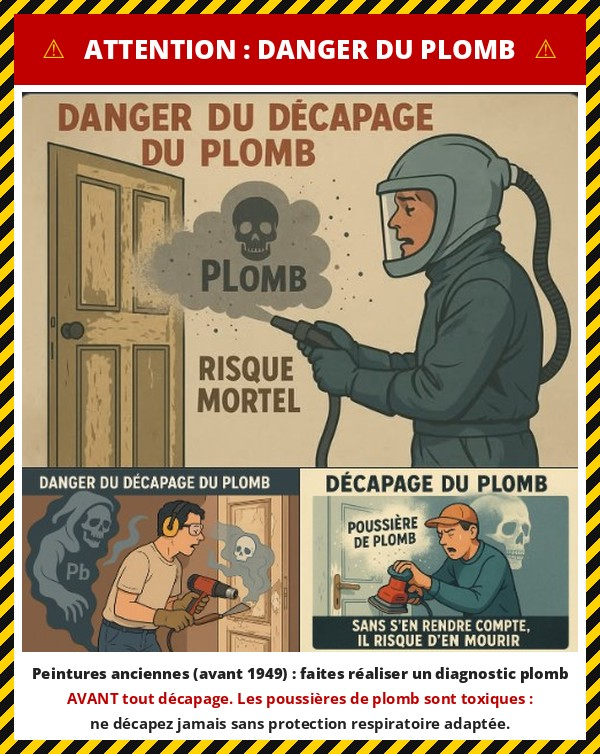
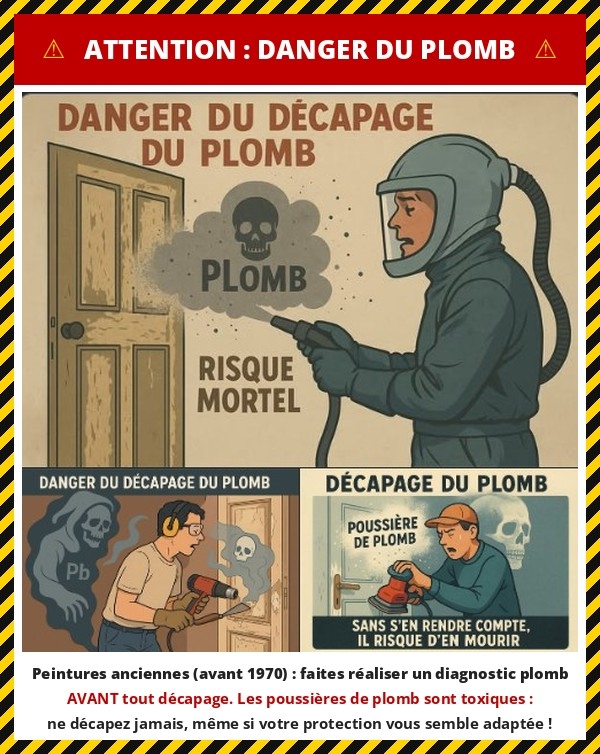
Alerte plomb : avant 1970, nouvelle dernière phrase
Claude-Session: https://claude.ai/code/session_01EiT2G1LncskeL2VjcbvMhA

Changed region(s): [[0.09, 0.9456, 0.93, 0.9761], [0.42, 0.8846, 0.48, 0.9151]]

diff --git a/leads_commerciaux.html b/leads_commerciaux.html
@@ -4444,7 +4444,7 @@ function dlSignatureLoca(commercial){
   };
 }
 const LOCA_PLOMB_IMG = LOCA_BASE + "alerte_plomb.jpg";
-const LOCA_PLOMB_TEXTE = "⚠ ATTENTION : DANGER DU PLOMB ⚠\nPeintures anciennes (avant 1949) : faites réaliser un diagnostic plomb AVANT tout décapage. Les poussières de plomb sont toxiques : ne décapez jamais sans protection respiratoire adaptée.";
+const LOCA_PLOMB_TEXTE = "⚠ ATTENTION : DANGER DU PLOMB ⚠\nPeintures anciennes (avant 1970) : faites réaliser un diagnostic plomb AVANT tout décapage. Les poussières de plomb sont toxiques : ne décapez jamais, même si votre protection vous semble adaptée !";
 // Retire l'ancienne signature texte « AEROGOMM Grand Ouest » en fin de message
 function dlCorpsLoca(corps){ return (corps || "").replace(/\n*\s*AEROGOMM Grand Ouest\s*$/i, "").replace(/\s+$/, ""); }
 // Copie la signature (images) dans le presse-papiers : il suffit de faire Ctrl+V à la fin du mail dans Thunderbird
